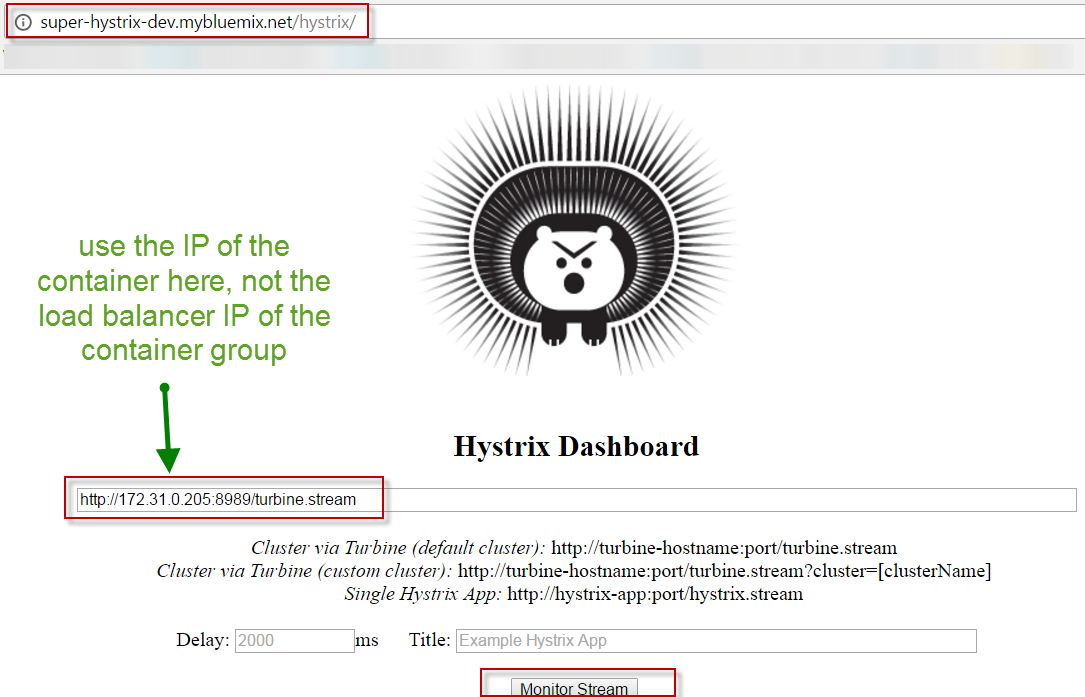
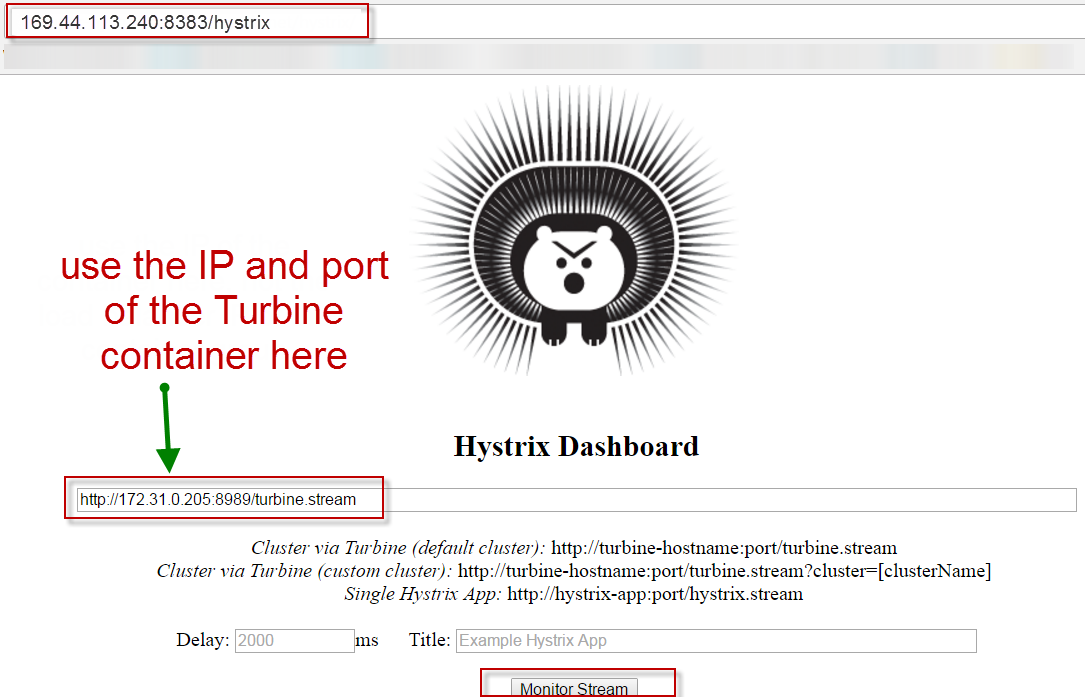
Updated doc set to match latest deployments

Changed region(s): [[0.0304, 0.3314, 0.365, 0.5423], [0.0, 0.0, 0.3346, 0.0603]]

diff --git a/README.md b/README.md
@@ -1,11 +1,11 @@
 # refarch-cloudnative-netflix-hystrix
 
-This is a version of the Netflix Hystrix component that will be used to monitor the What's for Dinner microservice application.   The documentation within this component will walk you through the entire process to startup your What's for Dinner environment and use the Hystrix dashboard.  The other components referenced here have their own README.md files, but you can use this one as a sample guide for an end to end setup.
+This is a version of the Netflix Hystrix component that will be used to monitor the What's For Dinner (WFD) microservice application.   The documentation within this component will walk you through the entire process to startup your What's For Dinner environment and use the Hystrix dashboard.  The other components referenced here have been built from the noted branch.  You can refer to their README.md file for more info.  
 
 ## Using Turbine Stream with the CloudAMQP service on Bluemix Public
 
-High level overview of setup (note, spring-config, netflix-eureka, and netflix-zuul not shown):
-![Hystrix with Turbine Stream and RabbitMQ](static/imgs/HystrixTurbineStreamRabbitMQ.png?raw=true)
+Logical Architecture
+![Hystrix with Turbine Stream and RabbitMQ](static/imgs/WhatsForDinner-Netflix-OSS.png?raw=true)
 
 Currently there is a known issue related to getting Hystrix data through Zuul.  For this reason, we will create a public route to view our Hystrix dashboard. The containers listed in this scenario were built from these GitHub repos:
 
@@ -36,6 +36,8 @@ Under the Manage tab, open the CloudAMQP dashboard to view your credentials for 
 
 - spring_rabbitmq_addresses=amqp://blahblah:more-encrypted-stuff@white-swan.rmq.cloudamqp.com/blahblah
 
+Note: The free service of the CloudAMQP will fill up and lock if you leave this application running overnight. After your testing, you may want to bring down the menu, ui, and turbine service to save your free AMQP from filling up.
+
 ![CloudAMQP Credentials](static/imgs/RabbitMQDashboard.png?raw=true)
 
 # Startup services and test locally using Docker
@@ -50,7 +52,7 @@ The following sections are taken from the above noted script.  You will have to 
 - When using Bluemix and container groups, use the IP address of the load balancer IP of the container groups
 - When using Bluemix container groups, give some time for certain container groups to be completely started (Eureka, Config Server) to avoid errors in the log files
 
-To run this scenario below, I used a 10GB Linux Ubuntu image running Docker.  I left most of the services using the default container image of 1GB, as I ran into problems when I adjust the memory lower, except for the services where I used 756M in the commands below.  I believe this is due to my Docker environment, as I get a warning that swap is not enabled when I set the memory lower, which may explain why it fails when I set it too low.   When running in Bluemix, this limitation is not present, but, you still have to have it not be too low.
+To run this scenario below, I used a 10GB Linux Ubuntu image running Docker.  I left most of the services using the default container image of 1GB, as I ran into problems when I adjust the memory lower, except for the services where I used 756M in the commands below.  I believe this is due to my Docker environment, as I get a warning that swap is not enabled when I set the memory lower, which may explain why it fails when I set it too low.   When running in Bluemix, this limitation is not present.
 
 ## Startup Eureka first and set the Eureka container IP address
 
@@ -66,6 +68,8 @@ Now, inspect the netflix-eureka container and set the IP in the correct environm
 - env-spring-config-local
 
 Also make sure you update this value in your Config Server's GitHub's application.yml file, or any other yml file being used as part of a Config Profile.
+
+Note: I use environment files in these examples to hold the environment variables.  You could have easily used the -e option to set each environment key=value pair on the command line.
 
 ## Startup the Config Server and set the Config Server container IP Address
 
@@ -117,9 +121,26 @@ Validate everything is ok by checking the logs:
 
 - docker logs wfd-ui
 
+## Startup Zuul
+
+This version of zuul does not enforce any security through shared secret tokens.  It will simply proxy to the exposed service endpoints of the registered microservices.
+
+- cd ~/ibm-cloud-architecture/refarch-cloudnative-netflix-hystrix/scripts
+- docker run --name netflix-zuul -p 8080:8080 --env-file env-zuul-local -d netflix-zuul:latest
+
+Validate everything is ok by checking the logs:
+
+- docker logs netflix-zuul
+
+You should be able to see the What's For Dinner UI through the zuul proxy, by bringing up a browser at the following URL:
+
+- http://localhost:8080/whats-for-dinner
+
 If you have not already, bring up a web browser and validate Eureka is up a running with the Config-Server and all other microservices registered:
 
 - http://localhost:8761/
+
+![Eureka registered services](static/imgs/Eureka-Instances.png?raw=true)
 
 ## Startup the Turbine Stream
 
@@ -158,6 +179,10 @@ At this time, you can play around with failing various services to see how it ef
 
 ![Hystrix Dashboard - failure of menu service](static/imgs/HystrixDashboardServiceFailure.png?raw=true)
 
+The default menu entries are shown here.  That is, if any of the backend microservices are down, the menu will default to these entries (i.e.: if Desserts is down, we will just show Cookies, Candy, Cake).  If the service is up, it will present the value from the Config Server's configured GitHub url.
+
+![Circuit Breaker menu items](static/imgs/WFD-CircuitBreakEntries.png?raw=true)
+
 # Running the same stack in Bluemix Public
 
 This section will describe the process for running the same stack within Bluemix Public.
@@ -185,13 +210,17 @@ You can refer to the various GitHub repositories used here for more info.
 
 ## Deploy to Bluemix Public
 
-Normally, as we commit changes to our various repos, we would execute a Bluemix toolchain to automate the build, deployment, run tests, etc.  We will not cover toolchains here.  This section is just going to go through the commands and services in a similar fashion as described in the previous section on running it locally with Docker.  Here are some of the differences:
+Normally, as we commit changes to our various repos, we would execute a Bluemix toolchain to automate the build, deployment, run tests, etc.  We will not cover toolchains here. For a great overview of deploying this stack using a Bluemix Toolchain, refer to: https://github.com/ibm-cloud-architecture/refarch-cloudnative-wfd-devops-containers/tree/RESILIENCY  
+
+This section will describe the commands used to deploy the services on Bluemix.  Here are some of the differences from running local in Docker:
 
 - We will be using Bluemix container groups to allow for easily running multiple instances of each service.  In this example, we just run one instance in a group, but you can adjust to play around as needed.
 
-- We will create a public route to our Hystrix container group to view the dashboard as there are some known issues viewing this through zuul.  
+- We will use a public IP and bind it to our Hystrix container to view the dashboard.  Viewing this through zuul or a Cloud Foundry route adds delay that causes browser performance issues.
 
-- We will also create a public route to view the wfd-ui container group for our load testing and viewing the application.  
+- We will use a single container for Turbine as this single IP is used in the Hystrix dashboard's turbine stream entry.
+
+- We will only create a public route to view the wfd-ui container group through the zuul proxy. 
 
 - When taking the container IP address for Eureka and Spring Config, use the load balancer IP from the container, rather than the specific container IP, since these are now in container groups
 
@@ -201,7 +230,7 @@ Other than that, everything else is very similar to what was setup before.
 
 ## Startup Eureka  
 
-There is a script called "deploy-bx-us.sh" located in the directory "~ibm-cloud-architecture/refarch-cloudnative-netflix-hystrix/scripts" that has a complete startup sequence, with the eureka and spring config commented out to allow you to start those by hand.   Run Eureka:
+There is a script called "deploy-bx-us.sh" located in the directory "~ibm-cloud-architecture/refarch-cloudnative-netflix-hystrix/scripts" that has a complete startup sequence.  I suggest to review this script and run the services by hand using copy/paste.  Run Eureka:
 
 - cf ic group create --name netflix-eureka -p 8761 -m 512 --min 1 --max 2 --desired 1 registry.ng.bluemix.net/supercontainers/netflix-eureka:dev
 
@@ -211,13 +240,14 @@ Use the "cf ic group list" command to notice how the container group gets deploy
 
 Identify the container that was just started and inspect it for the load balancer IP.  Some commands that can help are:
 
+- cf ic logs <container-id>
 - cf ic inspect <container-id>
 - bx list containers
 
-Once you get the IP address, set it into the remote environment files and also in the config server application.yml.  These files are used in this example:
+Once you get the IP address of the load balancer, set it into the appropriate environment files and also in the config server's application.yml.  These files are used in this example:
 
 - env-eureka-only-remote, env-spring-config-remote, env-zuul-remote
-- adjust the application.yml if present in the config server GitHub
+- adjust the application.yml if present in the config server's GitHub URL you are using (i.e.: you can clone the default one or create your own)
 
 ## Startup the Config Server
 
@@ -233,13 +263,13 @@ Just as before, get the load balancer IP address from this container after it st
 Make sure the Config Server container group has started completely before starting up these microservices.
 
 - cd ~ibm-cloud-architecture/refarch-cloudnative-netflix-hystrix/scripts
-- cf ic group create --name appetizer -p 8082 -m 512 --min 1 --max 2 --desired 1 --env-file env-only-spring-config-remote registry.ng.bluemix.net/supercontainers/wfd-appetizer:dev
-- cf ic group create --name dessert -p 8083 -m 512 --min 1 --max 2 --desired 1 --env-file env-only-spring-config-remote registry.ng.bluemix.net/supercontainers/wfd-dessert:dev
-- cf ic group create --name entree -p 8081 -m 512 --min 1 --max 2 --desired 1 --env-file env-only-spring-config-remote registry.ng.bluemix.net/supercontainers/wfd-entree:dev
+- cf ic group create --name appetizer -p 8082 -m 256 --min 1 --max 2 --desired 1 --env-file env-only-spring-config-remote registry.ng.bluemix.net/supercontainers/wfd-appetizer:dev
+- cf ic group create --name dessert -p 8083 -m 256 --min 1 --max 2 --desired 1 --env-file env-only-spring-config-remote registry.ng.bluemix.net/supercontainers/wfd-dessert:dev
+- cf ic group create --name entree -p 8081 -m 256 --min 1 --max 2 --desired 1 --env-file env-only-spring-config-remote registry.ng.bluemix.net/supercontainers/wfd-entree:dev
 
 ## Startup the menu aggregation service
 
-After the 3 menu microservices startup, start the menu aggregration service.  Use "cf ic group list" to monitor the progress.
+After the 3 menu microservices startup, start the menu aggregration service.  Use "cf ic group list" to monitor the progress.  This service does not use the Config Server, so, we inject the Eureka load balancer IP as well as our RabbitMQ service URL.
 
 - cd ~ibm-cloud-architecture/refarch-cloudnative-netflix-hystrix/scripts
 - cf ic group create --name menu -p 8180 -m 512 --min 1 --max 2 --desired 1 --env-file env-eureka-only-remote registry.ng.bluemix.net/supercontainers/wfd-menu:dev
@@ -248,58 +278,77 @@ Note, after this container gets created, you should have a connection out to you
 
 ## Startup the What's For Dinner UI service
 
-Make sure the menu service has started ok and has connected to RabbitMQ, and continue starting the rest of the stack.
+Make sure the menu service has started ok and has connected to RabbitMQ, and continue starting the rest of the stack. This service does not use the Config Server either.
 
 - cd ~ibm-cloud-architecture/refarch-cloudnative-netflix-hystrix/scripts
 - cf ic group create --name wfd-ui -p 8181 -m 512 --min 1 --max 2 --desired 1 --env-file env-eureka-only-remote registry.ng.bluemix.net/supercontainers/wfd-ui:dev
 
 ## Startup Turbine
 
-After the menu services have started, create the Turbine service.
+After the menu services have started, create the Turbine service.  Note, using a single container here.
 
 - cd ~ibm-cloud-architecture/refarch-cloudnative-netflix-hystrix/scripts
-- cf ic group create --name netflix-turbine -p 8989 -m 512 --min 1 --max 2 --desired 1 --env-file env-eureka-only-remote registry.ng.bluemix.net/supercontainers/netflix-turbine:dev
+- cf ic run --name netflix-turbine -p 8989 -m 512 --env-file env-eureka-only-remote registry.ng.bluemix.net/supercontainers/netflix-turbine:dev
 
 Make sure you have the three connections to RabbitMQ after this service starts up.
 
 ## Startup Hystrix
 
-Lastly, lets start up Hystrix.
+Start up Hystrix.
 
 - cd ~ibm-cloud-architecture/refarch-cloudnative-netflix-hystrix/scripts
-- cf ic group create --name netflix-hystrix -p 8383 -m 512 --min 1 --max 2 --desired 1 --env-file env-eureka-only-remote registry.ng.bluemix.net/supercontainers/netflix-hystrix:dev
+- cf ic run --name netflix-hystrix -p 8383 -m 512 --env-file env-eureka-only-remote registry.ng.bluemix.net/supercontainers/netflix-hystrix:dev
+
+## Startup Zuul
+
+- cd ~ibm-cloud-architecture/refarch-cloudnative-netflix-hystrix/scripts
+- cf ic group create --name netflix-zuul -p 8080 -m 512 --min 1 --max 2 --desired 1 --env-file env-zuul-remote registry.ng.bluemix.net/supercontainers/netflix-zuul:dev
 
 Take a look at the container groups we have started.
 
 - cf ic group list
 
-![Container Group List](static/imgs/BluemixContainerGroups.png?raw=true)
+Take a look at the two containers for Turbine and Hystrix:
 
-As stated before, we are not going to deploy zuul in this example.  Instead, we will create two public routes to get at both the Hystrix dashboard and also the What's For Dinner UI.  We create the route using Cloud Foundry commands and then map the route to the container group as follows (use your own route names to make them unique):
+- cf ic ps -a
 
-- cf create-route dev -n super-wfd-ui-dev mybluemix.net
-- cf ic route map -n super-wfd-ui-dev -d mybluemix.net wfd-ui
-- cf create-route dev -n super-hystrix-dev mybluemix.net
-- cf ic route map -n super-hystrix-dev -d mybluemix.net netflix-hystrix 
+We will create two public routes to get at both the Hystrix dashboard and also the What's For Dinner UI.  We create one route using the Cloud Foundry command and then map the route to the container group as follows for the Zuul application (use your own route names to make them unique):
 
-At this point, we now have public routes to both the What's For Dinner menu and also the Hystrix dashboard.   We can now bring up the Hystrix dashboard and configure it to monitor our Turbine stream.  We will need to inspect the container for turbine and pass in its IP to give to Hystrix, similar to what we did when running locally (do not use the load balancer IP of the group for this configuration):
+For the route through Zuul to the WFD UI endpoint:
+
+- cf create-route dev mybluemix.net --hostname super-wfd-ui-dev --path whats-for-dinner
+- cf ic route map --hostname super-wfd-ui-dev --domain mybluemix.net netflix-zuul
+
+For the IP address to Hystrix:
+
+- cf ic ip list
+
+If no public IP's are in your space, make sure some are allocated to it.  If they are allocated, request a IP
+
+- cf ic ip request
+
+Bind the IP to the container Hystrix instance:
+
+- example: cf ic bind 169.44.113.240 netflix-hystrix 
+
+At this point, we now have public routes to both the What's For Dinner UI menu and also the Hystrix dashboard.   We can now bring up the Hystrix dashboard and configure it to monitor our Turbine stream.  We will need to inspect the container for turbine and pass in its IP to give to Hystrix, similar to what we did when running locally:
 
 - cf ic ps -a
 - cf ic inspect <container id of turbine>
 
-Bring up a browser to Hystrix and configure to monitor the Turbine stream.  Note that since we mapped a route to a container group, we don't have to specify the port in the URL as we did with local Docker.  Example: 
+Bring up a browser to Hystrix and configure to monitor the Turbine stream.  Note that since we bound a public IP to the container, we still need to port in the URL.  Example: 
 
-- http://super-hystrix-dev.mybluemix.net/hystrix 
+- http://169.44.113.240:8383/hystrix/monitor?stream=http%3A%2F%2F172.31.1.22%3A8989%2Fturbine.stream
 
 ![Hystrix dashboard in Bluemix](static/imgs/BluemixHystrixConfigure.png?raw=true)
 
-Bring up a browser to the WFD UI.  Again, since we map a route to a container group, we do not need to specify a port in the URL.  Example:
+Bring up a browser to the WFD UI.  Since we mapped a route to the zuul container group, we do not need to specify a port in the URL.  Example:
 
-- http://super-wfd-ui-dev.mybluemix.net/ 
+- http://super-wfd-ui-dev.mybluemix.net/whats-for-dinner 
 
 ![WFD in Bluemix](static/imgs/Bluemix-wfd-ui.png?raw=true)
 
-Put some load on the menu route by adjusting the script "loadMenu-remote.sh" and running it in a shell window.  You can now view the Hystrix dashboard in Bluemix with some load on the services.  If you have some delay in seeing the dashboard, try Firefox browser to the URL and make sure you put some load on the route.
+Put some load on the menu route by adjusting the script "loadMenu-remote.sh" and running it in a shell window.  You can now view the Hystrix dashboard in Bluemix with some load on the services.
 
 ![Hystrix dashboard in Bluemix](static/imgs/BluemixHystrixLoad.png?raw=true)
 
@@ -311,7 +360,7 @@ The above command will bring down the entree service.  This also removes the con
 
 After your testing, you may want to remove the public route to your service.  You can leave the route in your CF space and simply unmap it from the container group.  You can also delete the route after unmapping.   Removing the container group will unmap the route as the container group is gone.
 
-- cf ic route unmap -n super-hystrix-dev -d mybluemix.net netflix-hystrix
-- cf ic route unmap -n super-wfd-ui-dev -d mybluemix.net wfd-ui
+- cf ic ip unbind <IP-Address> netflix-hystrix
+- cf ic route unmap --hostname super-wfd-ui-dev --domian mybluemix.net netflix-zuul
  
 You can also look a the script "kill-remote-services.sh" to bring down the entire stack.
